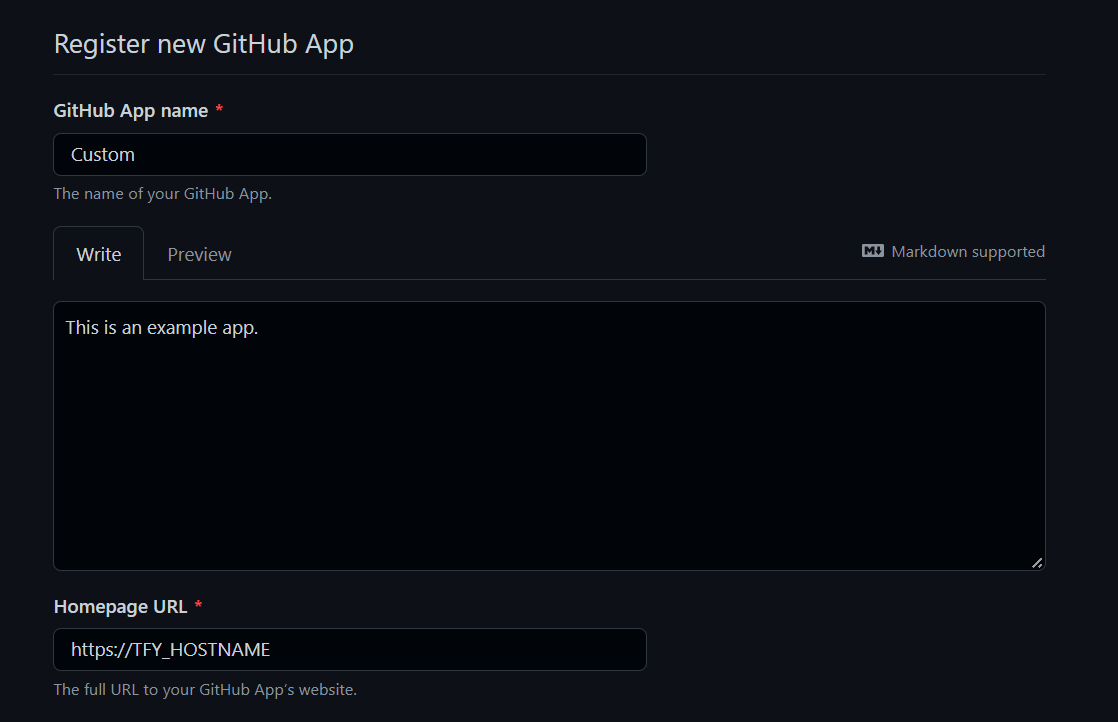
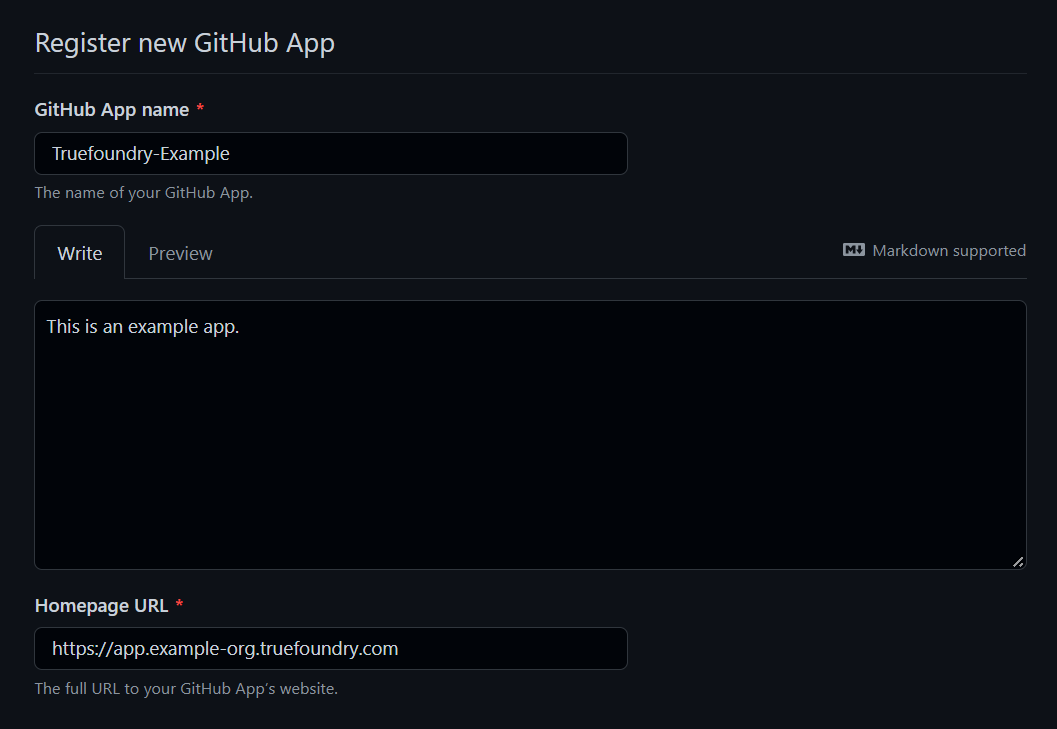
Removing app password and adding some minor changes

diff --git a/deploy-on-own-cloud/add-version-control-integration.md b/deploy-on-own-cloud/add-version-control-integration.md
@@ -11,13 +11,13 @@ Follow these steps to create the github app and integrate it with truefoundry:
 - On the sidebar, select Developer Settings.
 - On the sidebar, select Github apps.
 - Click the New Github App button and add the following settings:
-    - GitHub App name : Custom
-    - Homepage URL : https:// + $TFY_HOSTNAME 
+    - GitHub App name : Truefoundry-Example
+    - Homepage URL : https://app.example-org.truefoundry.com
     
     ![Github app settings](../assets/vcs-integration-github-settings-1.png)
 
     - Identifying and authorizing users 
-        - Callback URL : https:// + $TFY_HOSTNAME + /api/svc/v1/vcs/github/callback
+        - Callback URL : https://app.example-org.truefoundry.com/api/svc/v1/vcs/github/callback
         - Check : Expire user authorization tokens
         - Check : Request user authorization (OAuth) during installation
 
@@ -27,38 +27,32 @@ Follow these steps to create the github app and integrate it with truefoundry:
         - Check : Redirect on update
     - Webhook
         - Check : Active
-        - Webhook URL : https:// + $TFY_HOSTNAME + /api/svc/v1/vcs/github/webhook-callback
+        - Webhook URL : https://app.example-org.truefoundry.com/api/svc/v1/vcs/github/webhook-callback
 
     ![Github app settings](../assets/vcs-integration-github-settings-3.png)
 
     - Permissions
         - Repository Permissions:
             - Administration: read and write
-
-            ![Github app permissions](../assets/vcs-integration-github-settings-4.png)
-
             - Commit statuses : read and write
             - Contents : read and write
-
-            ![Github app permissions](../assets/vcs-integration-github-settings-5.png)
-
             - Metadata : read-only
             - Pull request: read and write
             - Webhooks: rad and write
 
-            ![Github app permissions](../assets/vcs-integration-github-settings-6.png)
+            ![Github app permissions](../assets/vcs-integration-github-settings-4.png)
 
     - Where can this GitHub App be installed? : Any account
 
-    ![Github app settings](../assets/vcs-integration-github-settings-7.png)
+    ![Github app settings](../assets/vcs-integration-github-settings-5.png)
 
 - Once the app is created, store the GitHub App name and App id.
 
-![Github app properties](../assets/vcs-integration-github-settings-8.png)
+![Github app properties](../assets/vcs-integration-github-settings-6.png)
 
 - Navigate to Private Keys section and generate a private key. A PEM file containing private key will be downloaded.
 
-![Github app private key](../assets/vcs-integration-github-settings-9.png)
+![Github app private key](../assets/vcs-integration-github-settings-7.png)
 
 - Base 64 encode the entire content of the file. Please make sure to omit any whitelines before or after the text in the file. To base64 encode, use following commands on the command line:
     - Linux : `base64 private_key.pem > private_key.b64`
@@ -70,16 +64,15 @@ Please make sure to omit any whitelines before or after the text in the file. St
     - GITHUB_PRIVATE_KEY=${private_key}
     - GITHUB_APP_ID=${app_id}
 
-## Bitbucket
 
-### Adding Oauth Consumer
+## Bitbucket
 To enable Bitbucket integration in your app, you need to create a Bitbucket consumer using your Bitbucket account. This consumer can then be added to the users's account through our platform.
 Follow these steps to create the Bitbucket app and integrate it with truefoundry:
 - In Bitbucket, Select your avatar (Your profile and settings) from the navigation bar at the top of the screen. Under Recent workspaces, select a workspace.
 - On the sidebar, select Settings to open the Workspace settings.
 - On the sidebar, under Apps and features, select OAuth consumers.
 - Click the Add consumer button. Add following settings:
-    - Name : my_oauth_consumer
+    - Name : Truefoundry-Example
     - Callback URL : https://app.example-org.truefoundry.com/api/svc/v1/vcs/bitbucket/callback
     - URL : https://app.example-org.truefoundry.com
 
@@ -97,27 +90,6 @@ Follow these steps to create the Bitbucket app and integrate it with truefoundry
 
 ![Bitbucket app properties](../assets/vcs-integration-bitbucket-settings-3.png)
 
-### Adding App Password
-Now, for allowing deployment of public Bitbucket repositories, which do not even have the consumer added, we authorize using the `App password`, which need to be generated following way:
-- Select your avatar (Your profile and settings) from the navigation bar at the top of the screen.
-- Under Settings, select Personal settings.
-- On the sidebar, select App passwords.
-- Select Create app password. Add following settings:
-    - Label : my_app_password
-    - Permissions: 
-        - Account : email, read
-        - Repositories : read, write
-        - Workspace membership : read
-        - Pull requests : read, write
-
-![Bitbucket app password](../assets/vcs-integration-bitbucket-settings-4.png)
-
-- Create the password and store it.
-
-![Bitbucket app password](../assets/vcs-integration-bitbucket-settings-5.png)
-
-- Now, base 64 encode `${username}:${password}` and store it as encoded_password. Here username is the Bitbucket account's username, and password is the app-password generated above.
 - Set environment variables using the [docs](https://docs.truefoundry.com/documentation/deploying-on-your-own-cloud/production-installation) :
     - BITBUCKET_CLIENT_ID=${key}
     - BITBUCKET_CLIENT_SECRET=${secret}
-    - BITBUCKET_APP_PASSWORD=${encoded_password}
